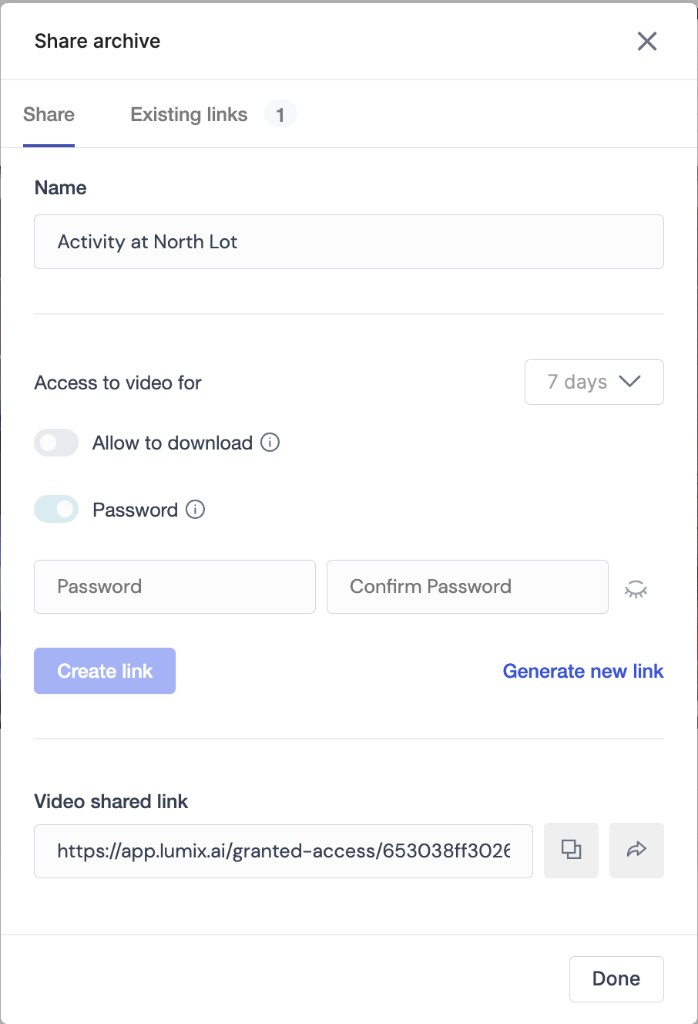
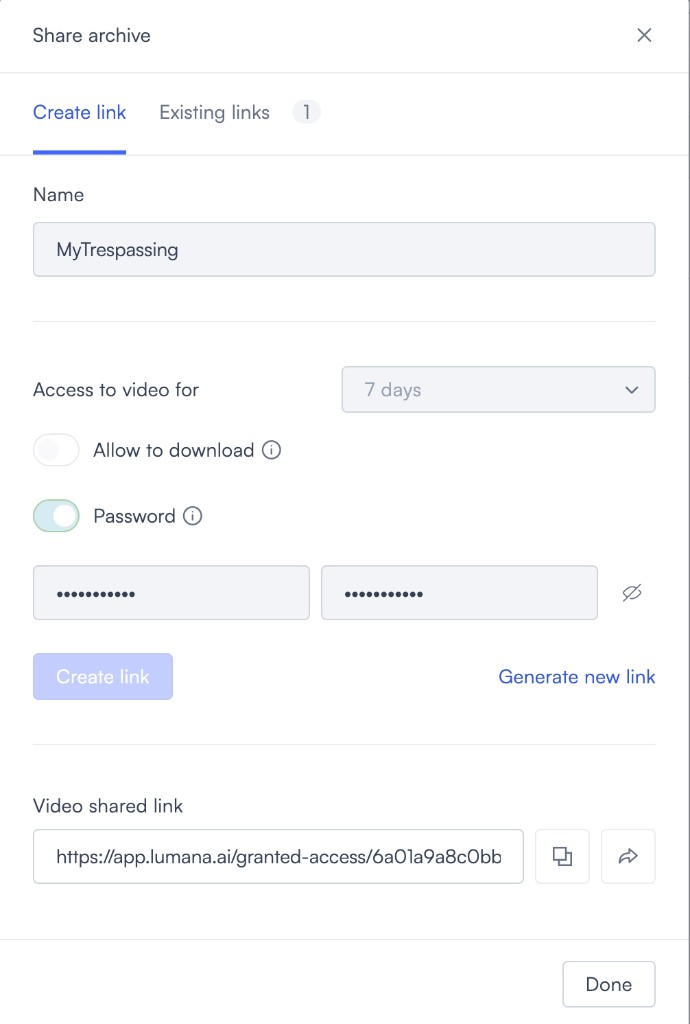
image updates

diff --git a/live-video-monitoring-and-operations/share-video.md b/live-video-monitoring-and-operations/share-video.md
@@ -1,6 +1,6 @@
 # Share video
 
-Use Lumana sharing options to send live camera views and archived footage to other viewers. You can start from a live camera, an alert, search results, or an existing archive. Then choose how long access lasts and whether viewers need a password or can download the footage. <img src="../.gitbook/assets/live-video-monitoring-and-operations/share-video-icon.png" alt="Share video icon used to open sharing options." data-size="line">
+Use Lumana sharing options to send live camera views and archived footage to other viewers. You can start from a live camera, an alert, search results, or an existing archive. Then choose how long access lasts and whether viewers need a password or can download the footage.
 
 ## Prerequisites
 
@@ -8,12 +8,51 @@ Make sure you can access the camera, alert, search result, or archive you want t
 
 ## Choose sharing options
 
-When you share footage from Lumana, the **Share archive** dialog lets you choose how people receive access and what restrictions apply.
+**Share archive** is the dialog you use to create a **Video shared link** for saved footage. The steps below follow the **Archives** path. Use this when the clip **already appears** in **Archives** or after you **Create archive** (for example from search) and return to the list.
 
-- **Sharing methods**: Generate a shareable link, send the share by email, or send it by SMS.
-- **Access controls**: Set how long the share stays available, require a password, and choose whether viewers can download the archive.
+From live view, **Share camera** opens when you select **Share**. From an alert on **Monitoring**, **Share alert** opens. Both use the same **Create link** pattern with label differences (see [**Share a live camera**](#share-a-live-camera) and [**Share an alert**](#share-an-alert)).
 
-<div align="center" data-with-frame="true"><img src="../.gitbook/assets/live-video-monitoring-and-operations/share-video-archive-dialog.png" alt="Share archive dialog with link, password, and access duration options." width="563"></div>
+**Go to Archives**
+
+1. In the left sidebar, select **Archives**.
+
+   The **Archives** page lists saved clips and timelapses. Use **Search for archive** and the row filters when the list is long.
+
+<div align="center" data-with-frame="true"><img src="../.gitbook/assets/live-video-monitoring-and-operations/share-video-archives-page.png" alt="" width="563"></div>
+
+2. Select the archive you want to share.
+
+   If it is not in the list yet, select **Create archive** in the upper right. Finish the archive workflow, then return to **Archives**.
+
+3. Select the archive to open it, then select **Share**.
+
+   **Share archive** opens. The **Create link** tab is active by default. **Existing links** may show a count badge if you saved links before.
+
+**Create link and copy or send**
+
+4. Enter a **Name** for this share (for example the incident or camera name).
+5. Open **Access to video for** and choose how long the link works, for example **7 days**.
+6. Turn **Allow to download** on or off so viewers can save the file or stream only (**Share camera** omits this toggle; **Share archive** and **Share alert** include it).
+7. Turn **Password** on, then type and confirm a password if viewers must enter one before playback.
+8. Select **Create link**.
+
+   Lumana fills **Video shared link** with the URL. Select the copy icon to copy the address. Select the share icon to send it through another channel where your deployment supports it (for example email or SMS).
+
+<div align="center" data-with-frame="true"><img src="../.gitbook/assets/live-video-monitoring-and-operations/share-video-archive-dialog.png" alt="" width="563"></div>
+
+9. Open the **Existing links** tab when you need an earlier link or want to send one by email or SMS.
+
+### Send the link by email or SMS
+
+<div align="center" data-with-frame="true"><img src="../.gitbook/assets/live-video-monitoring-and-operations/share-video-existing-links-dialog.png" alt="" width="563"></div>
+
+1. Select the arrow button next to the share link.
+
+   You can enter one or more email addresses or phone numbers.
+
+2. Select **Send**.
+
+10. Select **Done** to close **Share archive**.
 
 ## Share a live camera
 
@@ -22,48 +61,36 @@ Use this option when you want someone to watch a live camera feed.
 1. Select the desired camera.
 2. In the upper-right corner of the live view page, select **Share**.
 
-   The **Share archive** dialog opens.
+   The **Share camera** dialog opens.
+
+<div align="center" data-with-frame="true"><img src="../.gitbook/assets/live-video-monitoring-and-operations/share-video-share-camera-dialog.png" alt="" width="563"></div>
+
+3. Complete steps 4–10 in [**Choose sharing options**](#choose-sharing-options). On **Share camera**, use **Access to camera for** instead of **Access to video for**, and skip step 6.
 
 ## Share an alert
 
 Use this option when you want to share footage from a specific alert.
 
-1. Select the alert you want to share.
-2. In the upper-right corner of the alert view window, select **Share**.
+1. Open **Alerts**, then select **Monitoring**.
 
-   The **Share archive** dialog opens.
+2. Find the alert you want (for example under **Latest** alerts). On the alert card, select **Share** in the action row next to the title (curved arrow icon; hover shows **Share Alert**).
+
+<div align="center" data-with-frame="true"><img src="../.gitbook/assets/live-video-monitoring-and-operations/share-video-alerts-monitoring-share-alert.png" alt="" width="563"></div>
+
+   The **Share alert** dialog opens.
+
+<div align="center" data-with-frame="true"><img src="../.gitbook/assets/live-video-monitoring-and-operations/share-video-share-alert-dialog.png" alt="" width="563"></div>
+
+3. Complete steps 4–10 in [**Choose sharing options**](#choose-sharing-options). **Share alert** matches **Share archive** on **Create link**, including **Access to video for** and **Allow to download**.
 
 ## Share search results
 
 Use this option when you want to share a clip based on search results.
 
-1. Choose the correct thumbnail in the search results.
-2. Select **Create archive**.
+1. Run your search and select the thumbnail or row for the footage you want. For search-specific steps, see [Search video footage for people or vehicles](../databases-analytics-and-search/search-video-footage-for-people-or-vehicles.md), [Filter people, faces, vehicles, and license plates from the camera view](../databases-analytics-and-search/search-video-footage-for-other-objects.md), or [Free text search](../databases-analytics-and-search/free-text-search.md).
+2. Select **Create archive**, finish saving the clip, then select **Share** so **Share archive** opens.
 
-   The archive creation flow opens for the selected footage.
-
-3. Give the archive a name.
-4. Select the clip duration, then select **Create**.
-5. Select **Share**.
-
-   The **Share archive** dialog opens.
-
-## Share an existing archive
-
-Use this option when the archive already exists and you only need to manage sharing settings.
-
-1. Navigate to the archive page.
-2. Select the archive you want to share.
-3. Select **Share**.
-4. Choose how long access stays available and whether viewers can download the archive or need a password.
-
-<div align="center" data-with-frame="true"><img src="../.gitbook/assets/live-video-monitoring-and-operations/share-video-existing-links-dialog.png" alt="Share archive dialog showing existing links and sharing options." width="563"></div>
-
-5. Select the arrow button next to the share link.
-
-   You can enter one or more email addresses or phone numbers.
-
-6. Select **Send**.
+Continue with steps 4–10 in [**Choose sharing options**](#choose-sharing-options). To send by email or SMS from **Existing links**, use [**Send the link by email or SMS**](#send-the-link-by-email-or-sms).
 
 ## Next steps
 

diff --git a/live-video-monitoring-and-operations/lumana-timelapse.md b/live-video-monitoring-and-operations/lumana-timelapse.md
@@ -20,11 +20,11 @@ Timelapse snapshots are not generated retroactively. If you increase retention t
 
 ## Extend timelapse retention
 
-You can extend timelapse retention up to 30 days when you need a longer review window.
+You can extend timelapse retention on the camera **Storage** page when you need a longer review window.
 
-1. Open the camera settings for the camera you want to update.
-2. Adjust **Snapshot Retention Period** to the duration you want, up to 30 days.
-3. Save the settings.
+1. Open **Devices**, select the camera you want, then open **Edit Camera**.
+2. Select **Storage** in the sidebar. Under **Data retention**, open **Snapshot retention days** and choose a period from the list, for example **3 days**, **7 days**, **14 days**, **30 days**, or **90 days** when available.
+3. Select **Save** in the upper right.
 
    The new retention setting applies going forward.
 
@@ -32,13 +32,13 @@ You can extend timelapse retention up to 30 days when you need a longer review w
 Once you increase retention, additional snapshots begin collecting from that point. You must wait for time to pass before you can generate longer timelapse videos.
 {% endhint %}
 
-   <div align="center" data-with-frame="true"><img src="../.gitbook/assets/live-video-monitoring-and-operations/lumana-timelapse-retention-settings.png" alt="Edit selected cameras dialog showing snapshot retention settings for timelapse." width="563"></div>
+<div align="center" data-with-frame="true"><img src="../.gitbook/assets/live-video-monitoring-and-operations/lumana-timelapse-retention-settings.png" alt="" width="563"></div>
 
-Once you understand the default window and the retention limit, you can decide whether the built-in range is enough for your workflow.
+Once you understand the default window and the longest option your deployment offers in **Snapshot retention days**, you can decide whether the built-in range is enough for your workflow.
 
-## Need more than 30 days?
+## Need longer history than snapshot retention allows?
 
-If you need timelapse history longer than 30 days, contact Customer Support to discuss extended storage options.
+If you need timelapse history beyond the maximum **Snapshot retention days** value available in your deployment, contact Customer Support to discuss extended storage options.
 
 ## Next steps
 

diff --git a/live-video-monitoring-and-operations/video-walls-and-shared-displays.md b/live-video-monitoring-and-operations/video-walls-and-shared-displays.md
@@ -62,12 +62,12 @@ Create a saved wall when you need a reusable layout for ongoing monitoring.
 
    Configure each option, then select **Done** to close **Alerts settings**:
 
-   - **Display**: choose how the alert list renders.
-   - **View duration**: set how long each alert stays on screen.
-   - **Pic in pic**: pick the source camera and where it appears.
-   - **Audio**: set the announcement style and volume. Select **Test** to preview the sound.
+   - **Display options**: choose how the alert renders, for example **Live**.
+   - **View duration**: set how long each alert stays on screen, for example **30 seconds**.
+   - **Pic in pic**: choose the picture-in-picture content (for example **Timelapse**) and its on-screen position (for example **Bottom right**).
+   - **Audio**: choose an announcement style (for example **Announcement**), set the volume with the slider, and select **Test** to preview the sound.
 
-<div align="center" data-with-frame="true"><img src="../.gitbook/assets/live-video-monitoring-and-operations/video-wall-alert-view-settings.png" alt="Alerts settings dialog: Display, View duration, Pic in pic, Audio with volume and Test, and Done." width="375"></div>
+<div align="center" data-with-frame="true"><img src="../.gitbook/assets/live-video-monitoring-and-operations/video-wall-alert-view-settings.png" alt="" width="375"></div>
 
 5. Select the cameras and alerts for the wall using the sidebar.
 
